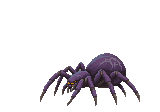
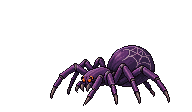
거미 도트 시트를 PixelLab Pro로 다시 제작: 걷기·이빨 물기·대기
- 일러스트를 image-to-pixelart-pro로 도트화하고 resize로 몸 폭 120에 맞춤 (진한 외곽선, 거미줄 무늬, 주황 눈 유지)
- 동작은 animate-pixminimax로 생성, 마지막 칸을 기본 자세로 고정해 끊김 없이 반복
- 물기는 몸을 뒤로 뺐다가 앞으로 덮치며 송곳니를 벌려 무는 동작
- 한 칸 192×112, 몸 중심 110, 발밑 106으로 변경

Changed region(s): [[0.25, 0.4018, 0.9062, 0.9643]]

diff --git a/tools/monster_pixel/pixellab_spider.py b/tools/monster_pixel/pixellab_spider.py
@@ -1,36 +1,52 @@
 """PixelLab API로 거미 도트 시트(걷기 8, 이빨 물기 8, 대기 4)를 만든다.
 
+1) image-to-pixelart-pro: 일러스트를 도트로 (도트 크기는 PixelLab이 정한다, 폭 약 170)
+2) resize: 도트 느낌을 지키며 폭 120으로 줄인다
+3) animate-pixminimax: 걷기·물기·대기 (마지막 칸을 기본 자세로 고정)
 사용: python tools/monster_pixel/pixellab_spider.py [원본 일러스트.png]
   원본을 주면 기본 도트(spider_base.png)부터 새로 만들고, 없으면 있는 기본 도트로 동작만 만든다.
-결과: assets/몬스터_도트/pixellab/spider.png, spider_echo.png (한 칸 160 × 112, 왼쪽을 봄)
+결과: assets/몬스터_도트/pixellab/spider.png, spider_echo.png (한 칸 192 × 112, 왼쪽을 봄)
 필요: 환경변수 PIXELLAB_TOKEN
 """
 import sys
+import time
 from pathlib import Path
 
 from PIL import Image
 
 HERE = Path(__file__).resolve().parent
 sys.path.insert(0, str(HERE.parent / 'hero_pixel'))
-from pixellab_hero_anims import b64, call, unb64, animate, to_palette, drop_specks  # noqa: E402
+from pixellab_hero_anims import b64, call, unb64, animate, to_palette, drop_specks  # noqa: E402,F401
 from make_monsters import echo  # noqa: E402
 
 OUT = HERE.parents[1] / 'assets' / '몬스터_도트' / 'pixellab'
-W, H = 160, 112            # 한 칸. 물기 때 앞(왼쪽)으로 뻗고 몸을 드니 왼쪽·위를 넉넉히
-FEET, LEFT = 106, 40       # 기본 자세의 발밑 줄, 몸 왼쪽 끝
-SKY = 40                   # 이 줄 위로는 거미가 없다
+W, H = 192, 112            # 한 칸. 물기 때 앞(왼쪽)으로 덮치니 왼쪽을 넉넉히
+FEET, LEFT = 106, 50       # 기본 자세의 발밑 줄, 몸 왼쪽 끝
+WIDTH = 120                # 거미 몸 폭
+LOOK = 'side view giant purple spider, crisp dark outline, orange eyes, web pattern on abdomen'
+SUBJECT = {'subject_description': 'a giant purple spider with orange eyes and curved fangs',
+           'initial_pose': 'standing on its eight legs', 'direction': 'west', 'view': 'side'}
 ROWS = (                   # 줄 순서는 monster_sprite.py와 같다: 걷기, 공격, 대기 / (이름, 칸 수, 시드, 동작)
-    ('walk', 8, 0, 'spider crawling forward to the left, eight legs stepping in alternating tetrapod gait, body level, side view'),
-    # 'fangs'를 강조하면 송곳니·다리가 거대해진다. 시드 5·15·25·41·42·44는 다리가 자라거나 몸이 돌아갔다.
-    ('attack', 8, 43, 'spider lunge bite: the spider crouches low, then its whole body darts forward to the left close to the ground and it bites with the small fangs under its eyes, the fangs open and snap shut at the front of the head, then it scuttles back to its starting pose. legs keep the same size and shape, nothing grows. side view'),
-    ('idle', 4, 0, 'spider idle, body gently bobbing up and down, legs twitching slightly, fangs moving, side view'),
+    ('walk', 8, 2, 'crawls forward in place with a smooth looping walk cycle, the eight legs step in alternating groups, the body stays level and bobs slightly'),
+    ('attack', 8, 2, 'rears back slightly with the front legs, then lunges its whole body forward and bites hard with its fangs, the fangs open wide and snap shut, then pulls back to the starting pose'),
+    ('idle', 4, 1, 'breathes slowly in place, the body rises and sinks a little, the fangs twitch, the legs stay planted'),
 )
-# 물기 줄 칸마다 몸을 옮기는 양(+ 뒤, - 앞=왼쪽). PixelLab 동작만으로는 덮치는 폭이 작아 무는 느낌이 약했다.
-LUNGE = (0, 3, 5, 6, -12, -20, -12, -4)
+# 물기 줄 칸마다 몸을 옮기는 양(+ 뒤, - 앞=왼쪽). PixelLab은 몸을 거의 제자리에 둬서 덮치는 이동은 코드로 준다.
+LUNGE = (0, 2, 4, 4, -10, -16, -12, -4)
+
+
+def wait(job):
+    while True:
+        time.sleep(5)
+        st = call('GET', f'/background-jobs/{job["background_job_id"]}')
+        if st['status'] == 'completed':
+            return st['last_response']
+        if st['status'] == 'failed':
+            raise RuntimeError(st)
 
 
 def pixelize(src_path, width=None, height=None):
-    """일러스트 → 128칸 도트(원본 반영 300) → 회색 배경 제거 → 몸에 맞춰 자른 그림.
+    """(외눈 유령용) 일러스트 → 128칸 도트(원본 반영 300) → 회색 배경 제거 → 몸에 맞춰 자른 그림.
     width나 height를 주면 몸 폭(또는 높이)이 128칸 중 그만큼이 되게 맞춘다."""
     src = Image.open(src_path).convert('RGBA')
     solid = src.getchannel('A').point(lambda v: 255 if v > 128 else 0)   # 원본의 옅은 얼룩은 버린다
@@ -67,10 +83,37 @@ def pixelize(src_path, width=None, height=None):
 
 
 def make_base(src_path):
-    img = pixelize(src_path, width=100)
+    src = Image.open(src_path).convert('RGBA')
+    solid = src.getchannel('A').point(lambda v: 255 if v > 128 else 0)   # 원본의 옅은 얼룩은 버린다
+    box = solid.getbbox()
+    body = src.crop(box)
+    body.putalpha(solid.crop(box))
+    pad = Image.new('RGBA', (body.width + 80, body.height + 80), (0, 0, 0, 0))
+    pad.paste(body, (40, 40))
+    img = unb64(wait(call('POST', '/image-to-pixelart-pro', {'image': b64(pad), 'seed': 2, 'description': LOOK}))['image'])
+    px = img.load()
+    for y in range(img.height):          # 흰 배경 (가장자리와 다리 사이 모두)
+        for x in range(img.width):
+            if px[x, y][3] and min(px[x, y][:3]) >= 235:
+                px[x, y] = (0, 0, 0, 0)
+    img = img.crop(img.getbbox())
+    size = {'width': WIDTH, 'height': round(img.height * WIDTH / img.width)}
+    img = unb64(call('POST', '/resize', {
+        'description': LOOK, 'reference_image': b64(img),
+        'reference_image_size': {'width': img.width, 'height': img.height}, 'target_size': size,
+        'view': 'side', 'direction': 'west', 'no_background': True, 'color_image': b64(img), 'seed': 1})['image'])
+    img = img.crop(img.getbbox())
     base = Image.new('RGBA', (W, H), (0, 0, 0, 0))
     base.paste(img, (LEFT, FEET - img.height))
     return base
+
+
+def animate_pm(base, count, seed, action):
+    """PixMiniMax. 마지막 칸을 기본 자세로 고정한다 (걷기·대기는 끊김 없이 반복, 물기는 제자리로 돌아온다).
+    돌려받는 칸: 0 = 입력, 1..count = 생성 (count번째 = 기본 자세)."""
+    return [unb64(i) for i in wait(call('POST', '/animate-pixminimax', {
+        **SUBJECT, 'first_frame': b64(base), 'last_frame': b64(base), 'description': action,
+        'frame_count': count, 'seed': seed, 'no_background': True}))['images']]
 
 
 def lunge(frame, dx):
@@ -82,6 +125,20 @@ def lunge(frame, dx):
     return out
 
 
+def build_sheet(base, rows):
+    """rows: 이름 → 생성된 칸 목록(animate_pm 결과). 걷기·대기는 0번부터, 물기는 1번부터 쓴다."""
+    palette = sorted({c[:3] for c in base.get_flattened_data() if c[3]})
+    sheet = Image.new('RGBA', (W * 8, H * len(ROWS)), (0, 0, 0, 0))
+    for row, (name, count, _, _) in enumerate(ROWS):
+        frames = rows[name][1:count + 1] if name == 'attack' else rows[name][:count]
+        for column, frame in enumerate(frames):
+            frame = drop_specks(to_palette(frame, palette), keep=30)
+            if name == 'attack':
+                frame = lunge(frame, LUNGE[column])
+            sheet.paste(frame, (column * W, row * H))
+    return sheet
+
+
 if __name__ == '__main__':
     OUT.mkdir(parents=True, exist_ok=True)
     base_path = OUT / 'spider_base.png'
@@ -89,18 +146,7 @@ if __name__ == '__main__':
         make_base(sys.argv[1]).save(base_path)
         print('base saved')
     base = Image.open(base_path).convert('RGBA')
-    palette = sorted({c[:3] for c in base.get_flattened_data() if c[3]})
-    sheet = Image.new('RGBA', (W * 8, H * len(ROWS)), (0, 0, 0, 0))
-    for row, (name, count, seed, action) in enumerate(ROWS):
-        frames = animate(base, name, count, action, seed)
-        frames = frames[1:] if name == 'attack' else frames[:count]   # 공격은 기본 자세 칸을 빼고 바로 준비부터
-        for column, frame in enumerate(frames[:count]):
-            frame = drop_specks(to_palette(frame, palette), keep=30)
-            # 거미는 어느 칸에서도 y 48 위로 올라가지 않는다. 그 위는 PixelLab이 만든 연기 같은 덩어리라 지운다.
-            frame.paste((0, 0, 0, 0), (0, 0, W, SKY))
-            if name == 'attack':
-                frame = lunge(frame, LUNGE[column])
-            sheet.paste(frame, (column * W, row * H))
-        print(name, len(frames))
+    rows = {name: animate_pm(base, count, seed, action) for name, count, seed, action in ROWS}
+    sheet = build_sheet(base, rows)
     sheet.save(OUT / 'spider.png')
     echo(sheet).save(OUT / 'spider_echo.png')

diff --git a/monster_sprite.py b/monster_sprite.py
@@ -18,7 +18,7 @@ WINDUP, RECOVERY, STRIKE = 0.31, 0.65, 0.4   # world.py의 준비·회복 시간
 # 거미·외눈 유령은 PixelLab 시트(tools/monster_pixel/pixellab_spider.py, pixellab_watcher.py)를 쓴다.
 # 줄 순서는 같다. 거미 공격은 이빨 물기, 유령 떠다니기는 위아래로 둥실둥실.
 # monster_sheets.json은 make_monsters.py가 다시 쓰므로 여기서 덮어쓴다.
-SPIDER = {'sheet': 'pixellab/spider', 'size': (160, 112), 'feet': 106, 'center': 90}
+SPIDER = {'sheet': 'pixellab/spider', 'size': (192, 112), 'feet': 106, 'center': 110}
 WATCHER = {'sheet': 'pixellab/watcher', 'size': (112, 136), 'feet': 124, 'center': 56}
 
 
